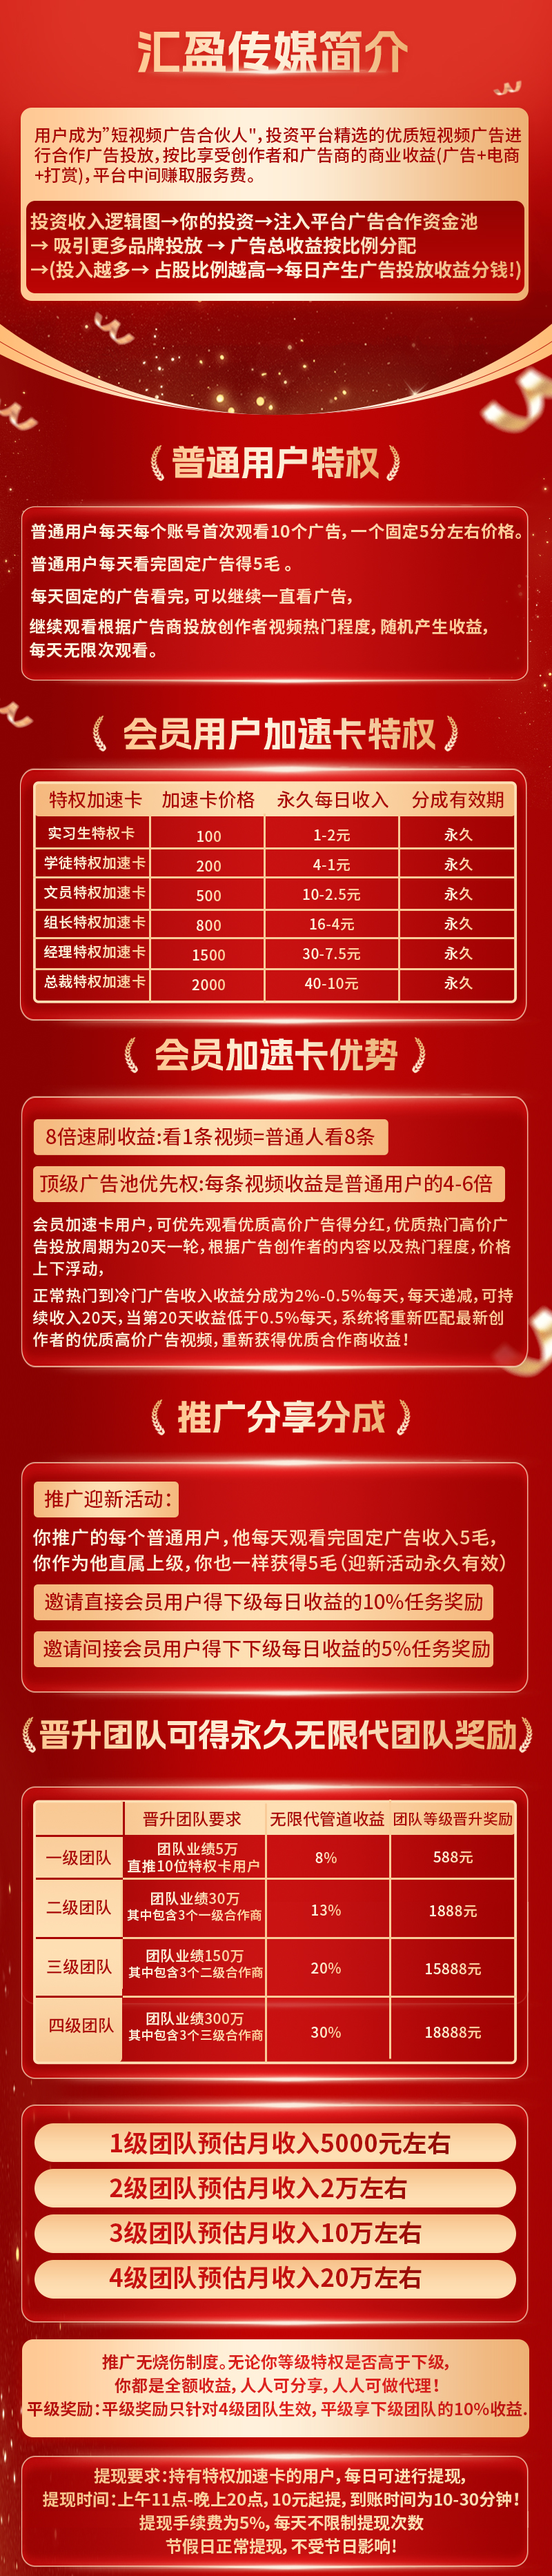
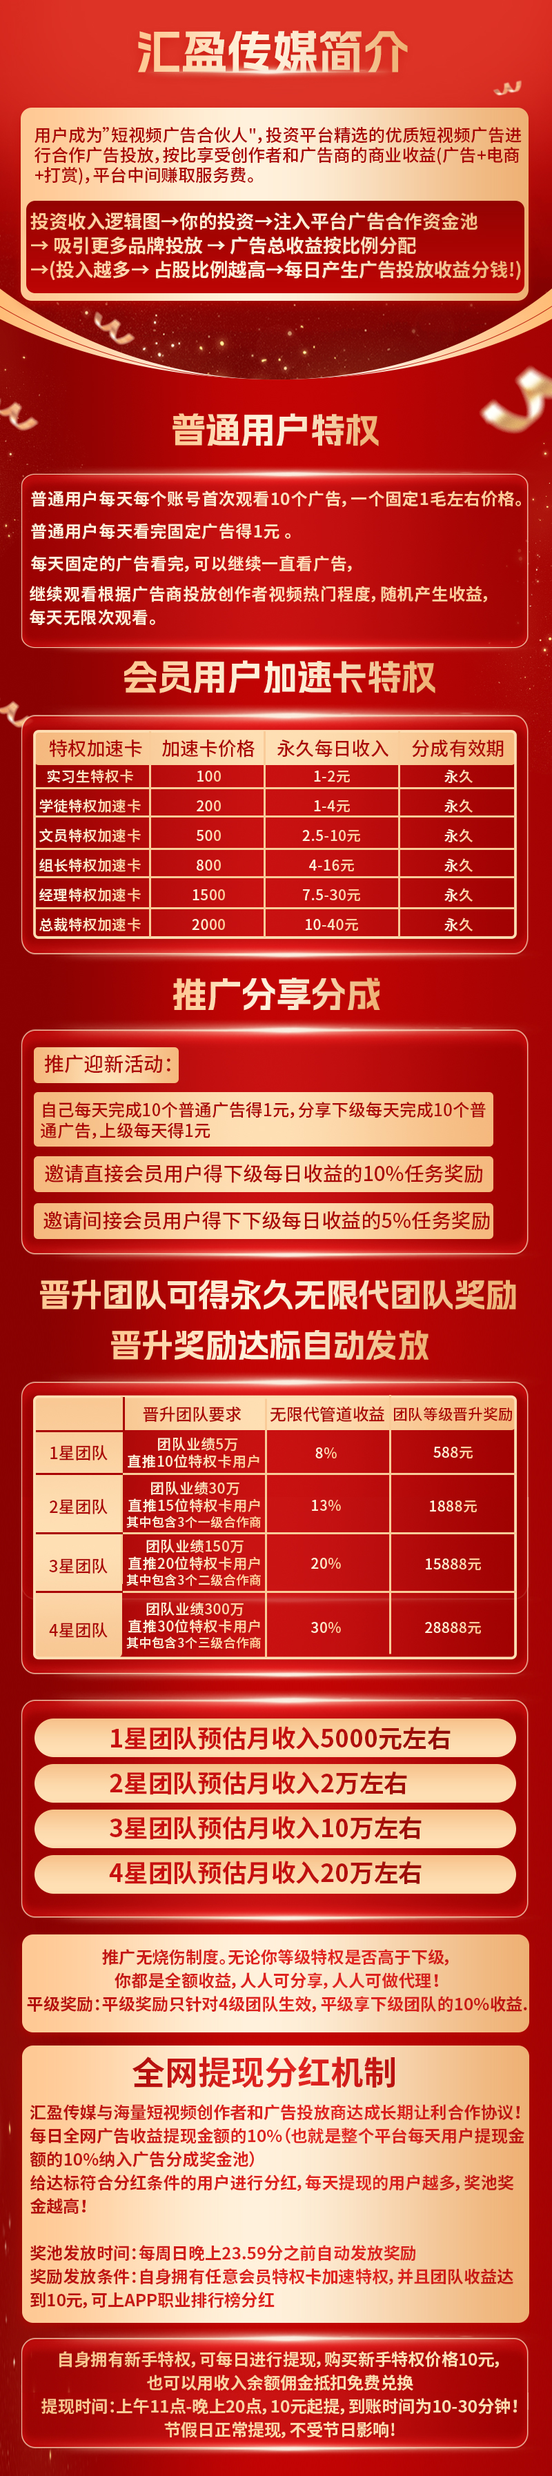
feat: 明细增加佣金嘉奖

diff --git a/src/pages/me/wallet/yongjinjiajiang.vue b/src/pages/me/wallet/yongjinjiajiang.vue
@@ -1,0 +1,127 @@
+<template>
+  <div class="container">
+    <van-list
+      v-model:loading="loading"
+      :finished="finished"
+      finished-text="没有更多了"
+      @load="getDataList"
+    >
+      <div v-for="(item, index) in dataList" style="position: relative" :key="item.id" class="card">
+        <!--        <div-->
+        <!--          v-if="item.count"-->
+        <!--          style="-->
+        <!--            position: absolute;-->
+        <!--            height: 20px;-->
+        <!--            background-color: red;-->
+        <!--            top: -5px;-->
+        <!--            left: 0;-->
+        <!--            border-radius: 10px;-->
+        <!--            display: flex;-->
+        <!--            align-items: center;-->
+        <!--            justify-content: center;-->
+        <!--            padding: 0 5px;-->
+        <!--          "-->
+        <!--        >-->
+        <!--          *{{ item.count }}-->
+        <!--        </div>-->
+        <div style="display: flex; justify-content: space-between; align-items: center">
+          <div style="width: 60%">
+            <div>
+              <span style="font-size: 14px; font-weight: bolder; color: #fff">{{
+                item.content
+              }}</span>
+            </div>
+            <div>
+              <span style="font-size: 12px; color: #aaa">{{ item.remark }}</span>
+            </div>
+          </div>
+          <div style="flex: 1; text-align: right">
+            <div>
+              <span
+                style="font-size: 16px; color: #f6202b; font-weight: bolder"
+                class="text-warning"
+                >+ {{ item.money || 0 }}元</span
+              >
+            </div>
+            <div style="margin-top: 6px">
+              <span style="font-size: 12px; color: #aaa">{{
+                method.toDate(item.create_time)
+              }}</span>
+            </div>
+          </div>
+        </div>
+      </div>
+    </van-list>
+  </div>
+</template>
+
+<script setup>
+import { reactive, onMounted, ref } from 'vue'
+import { reqWalletLog } from '@/api/myApi'
+import { _notice } from '@/utils/index'
+import { axiosInstance as axios } from '@/utils/myrequest'
+import utils from '@/utils/utils.js'
+const loading = ref(true)
+const finished = ref(false)
+
+const userInfo = ref(JSON.parse(window.localStorage.getItem('userInfo')))
+
+const dataList = ref([])
+const searchInfo = reactive({
+  page: 0,
+  limit: 30,
+  phone: ''
+})
+const method = {
+  toDate: (value) => utils.timeToDate(value, 'Y-M-D H:i')
+}
+const getDataList = () => {
+  searchInfo.page++
+  loading.value = true
+  reqWalletLog({
+    page: searchInfo.page,
+    limit: searchInfo.limit,
+    uid: userInfo.value.id,
+    order: 'id desc',
+    type: '1',
+    bind_type: 'bonus-invite'
+  }).then(({ code, msg, data }) => {
+    loading.value = false
+    if (code !== 200) {
+      finished.value = true
+      return
+    }
+    // 数据全部加载完成
+    dataList.value.push(...(data.data || []))
+    if ((data.data || []).length === 0 || dataList.value.length >= data.count) {
+      finished.value = true
+    }
+  })
+}
+
+onMounted(() => {
+  dataList.value = []
+  finished.value = false
+  searchInfo.page = 0
+  getDataList()
+})
+</script>
+
+<style scoped>
+.no-data {
+  text-align: center;
+  color: #999;
+  margin-top: 20px;
+}
+.card {
+  padding: 10px 15px 5px;
+  border-radius: 10px;
+  margin-top: 10px;
+}
+.container {
+  background-color: #2e3350;
+  margin: 10px;
+  border-radius: 10px;
+  color: #000;
+}
+</style>

diff --git a/src/pages/me/invest.vue b/src/pages/me/invest.vue
@@ -104,15 +104,15 @@
           <div>{{ item.name }}</div>
           <div><span class="fuhao">￥</span>{{ item.price }}</div>
           <div style="font-size: 12px; text-align: center">
-            <span v-if="item.serial === 0">
-              <div>30天有效期</div>
-              <div>开通提现权限</div>
-              <div>无其他用途</div>
-            </span>
-            <template v-else>
-              <div>永久有效期</div>
-              <div>永久循环收益</div>
-            </template>
+            <!--            <span v-if="item.serial === 0">-->
+            <!--              <div>30天有效期</div>-->
+            <!--              <div>开通提现权限</div>-->
+            <!--              <div>无其他用途</div>-->
+            <!--            </span>-->
+            <!--            <template v-else>-->
+            <div>永久有效期</div>
+            <div>永久循环收益</div>
+            <!--            </template>-->
           </div>
         </div>
       </div>
@@ -778,7 +778,7 @@ const buy = () => {
 
   if (userInfo.value.result.staff.id == 0 && item.serial != 0) {
     return showToast({
-      message: '请逐级开通！',
+      message: '请逐级购买！',
       icon: 'warning'
     })
   }
@@ -786,7 +786,7 @@ const buy = () => {
     userInfo.value.result.staff.serial + 1 != item.serial &&
     userInfo.value.result.staff.id !== 0
   ) {
-    if (item.serial !== 0) {
+    if (item.serial !== 0 && item.serial !== 1) {
       return showToast({
         message: '请逐级购买！',
         icon: 'warning'

diff --git a/src/pages/me/wallet.vue b/src/pages/me/wallet.vue
@@ -17,6 +17,7 @@
     <div style="background-color: #1f203d; margin: 10px; border-radius: 10px; overflow: hidden">
       <t-tabs :space-evenly="false" default-value="收入" theme="tag" @change="tabChange">
         <t-tab-panel label="收入" value="收入" />
+        <t-tab-panel label="佣金嘉奖" value="佣金嘉奖" />
         <!--      <t-tab-panel value="排行榜奖励" label="奖池发放" />-->
         <t-tab-panel value="新手特权奖励" label="新手特权奖励" />
         <t-tab-panel label="支出" value="支出" />
@@ -25,6 +26,7 @@
     </div>
 
     <wallet-income v-if="activeTab === '收入'"></wallet-income>
+    <yongjinjiajiang v-if="activeTab === '佣金嘉奖'"></yongjinjiajiang>
     <!--      </van-tab>-->
     <!--      <van-tab title="支出明细" name="支出">-->
     <wallet-expense v-if="activeTab === '支出'"></wallet-expense>
@@ -44,6 +46,7 @@ import WalletIncome from './wallet/income.vue'
 import WalletExpense from './wallet/expense.vue'
 import WalletWithdraw from './wallet/withdraw.vue'
 import rengoufanli from './wallet/rengoufanli.vue'
+import yongjinjiajiang from './wallet/yongjinjiajiang.vue'
 import modzz from '../login/model.vue'
 import { getIsInApp } from '@/utils/getTopPadding'
 import Paihangjiangli from '@/pages/me/wallet/paihangjiangli.vue'

diff --git a/src/pages/home/index.vue b/src/pages/home/index.vue
@@ -114,7 +114,10 @@
           <div class="item-box">
             <div>普通用户广告投放</div>
             <div>特权：无特权</div>
-            <div>日收益：固定0.5元</div>
+            <div>日收益：1-99元</div>
+            <div style="position: relative; top: 10px; color: red; font-size: 16px">
+              每日可无限次观看
+            </div>
             <div
               style="
                 position: absolute;
@@ -379,15 +382,15 @@ const loading = ref(false)
 const router = useRouter()
 const activeTab = ref(0)
 const appList = ref([
-  {
-    name: '参与方式 ',
-    desc: '点击查看每周分红奖池！',
-    logo: '6',
-    btnLabel: '查看',
-    btnCb() {
-      router.push('/canyufangshi')
-    }
-  },
+  // {
+  //   name: '参与方式 ',
+  //   desc: '点击查看每周分红奖池！',
+  //   logo: '6',
+  //   btnLabel: '查看',
+  //   btnCb() {
+  //     router.push('/canyufangshi')
+  //   }
+  // },
   // {
   //   name: '团队晋级奖励',
   //   desc: '点击查看代理佣金排行榜！',

diff --git a/src/pages/me/rank.vue b/src/pages/me/rank.vue
@@ -26,7 +26,7 @@
         <!--        本次周期分红总金额 <br />-->
         <!--          （每X天进行一轮分红） <br />-->
         <!--          <div style="display: flex; align-items: center">-->
-        <span>当前奖金</span>
+        <span>本周总提现</span>
         <span class="money">￥{{ total * 10 }}</span>
         <!--          </div>-->
       </div>
@@ -125,7 +125,9 @@
               <span style="line-height: 16px">
                 {{ item.nickname || getPhone(item.phone) }}
               </span>
-              <div style="line-height: 16px; position: absolute; top: 22px; color: red">
+              <div
+                style="line-height: 16px; position: absolute; top: 24px; left: -22px; color: red"
+              >
                 等级：{{ item?.vip?.name || '暂无特权' }}
               </div>
             </div>

diff --git a/src/api/myApi.ts b/src/api/myApi.ts
@@ -76,6 +76,9 @@ export function reqUserIncome() {
 
 // 购买会员
 export function reqEnterStaff(data) {
+  // return Promise.resolve({
+  //   code: 200
+  // })
   // return axiosInstance({ url: 'api/staff-entry/ok', method: 'post', data })
   return axiosInstance({ url: 'api/staff-entry/rent', method: 'post', data })
 }

diff --git a/src/pages/game/gameList.vue b/src/pages/game/gameList.vue
@@ -1,5 +1,5 @@
 <template>
-  <div class="gameList gameListClass" v-if="false">
+  <div class="gameList gameListClass">
     <van-nav-bar
       title="游戏大厅"
       safe-area-inset-top
